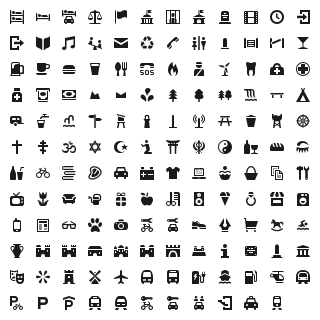
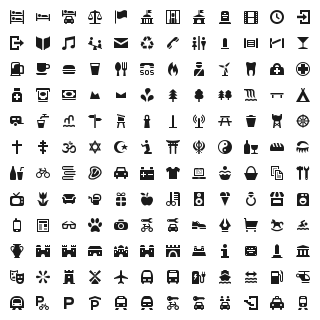
added ford

diff --git a/font/osmic-preview.html b/font/osmic-preview.html
@@ -214,6 +214,7 @@
 .oc-ferry:before,
 .oc-fire-station:before,
 .oc-florist:before,
+.oc-ford:before,
 .oc-fort:before,
 .oc-fountain:before,
 .oc-fuel:before,
@@ -371,6 +372,7 @@
 .oc-ferry:before { content: "\f170"; }
 .oc-fire-station:before { content: "\f126"; }
 .oc-florist:before { content: "\f127"; }
+.oc-ford:before { content: "\f191"; }
 .oc-fort:before { content: "\f17f"; }
 .oc-fountain:before { content: "\f128"; }
 .oc-fuel:before { content: "\f129"; }
@@ -475,7 +477,7 @@
   <body class="characters-off">
     <div id="page" class="container">
       <header>
-        <h1>osmic contains 143 glyphs:</h1>
+        <h1>osmic contains 144 glyphs:</h1>
         <a onclick="toggleCharacters(); return false;" href="#">Toggle Preview Characters</a>
       </header>
 
@@ -1179,6 +1181,19 @@
         <div class="usage">
           <input class="class" type="text" readonly="readonly" onClick="this.select();" value=".oc-florist" />
           <input class="point" type="text" readonly="readonly" onClick="this.select();" value="&amp;#xf127;" />
+        </div>
+      </div>
+      
+      <div class="glyph">
+        <div class="preview-glyphs">
+          <span class="step size-12"><span class="letters">Pp</span><i id="oc-ford" class="oc-ford"></i></span><span class="step size-14"><span class="letters">Pp</span><i id="oc-ford" class="oc-ford"></i></span><span class="step size-16"><span class="letters">Pp</span><i id="oc-ford" class="oc-ford"></i></span><span class="step size-18"><span class="letters">Pp</span><i id="oc-ford" class="oc-ford"></i></span><span class="step size-21"><span class="letters">Pp</span><i id="oc-ford" class="oc-ford"></i></span><span class="step size-24"><span class="letters">Pp</span><i id="oc-ford" class="oc-ford"></i></span><span class="step size-36"><span class="letters">Pp</span><i id="oc-ford" class="oc-ford"></i></span><span class="step size-48"><span class="letters">Pp</span><i id="oc-ford" class="oc-ford"></i></span><span class="step size-60"><span class="letters">Pp</span><i id="oc-ford" class="oc-ford"></i></span><span class="step size-72"><span class="letters">Pp</span><i id="oc-ford" class="oc-ford"></i></span>
+        </div>
+        <div class="preview-scale">
+          <span class="step">12</span><span class="step">14</span><span class="step">16</span><span class="step">18</span><span class="step">21</span><span class="step">24</span><span class="step">36</span><span class="step">48</span><span class="step">60</span><span class="step">72</span>
+        </div>
+        <div class="usage">
+          <input class="class" type="text" readonly="readonly" onClick="this.select();" value=".oc-ford" />
+          <input class="point" type="text" readonly="readonly" onClick="this.select();" value="&amp;#xf191;" />
         </div>
       </div>
       

diff --git a/font/osmic.css b/font/osmic.css
@@ -77,6 +77,7 @@
 .oc-ferry:before,
 .oc-fire-station:before,
 .oc-florist:before,
+.oc-ford:before,
 .oc-fort:before,
 .oc-fountain:before,
 .oc-fuel:before,
@@ -234,6 +235,7 @@
 .oc-ferry:before { content: "\f170"; }
 .oc-fire-station:before { content: "\f126"; }
 .oc-florist:before { content: "\f127"; }
+.oc-ford:before { content: "\f191"; }
 .oc-fort:before { content: "\f17f"; }
 .oc-fountain:before { content: "\f128"; }
 .oc-fuel:before { content: "\f129"; }
